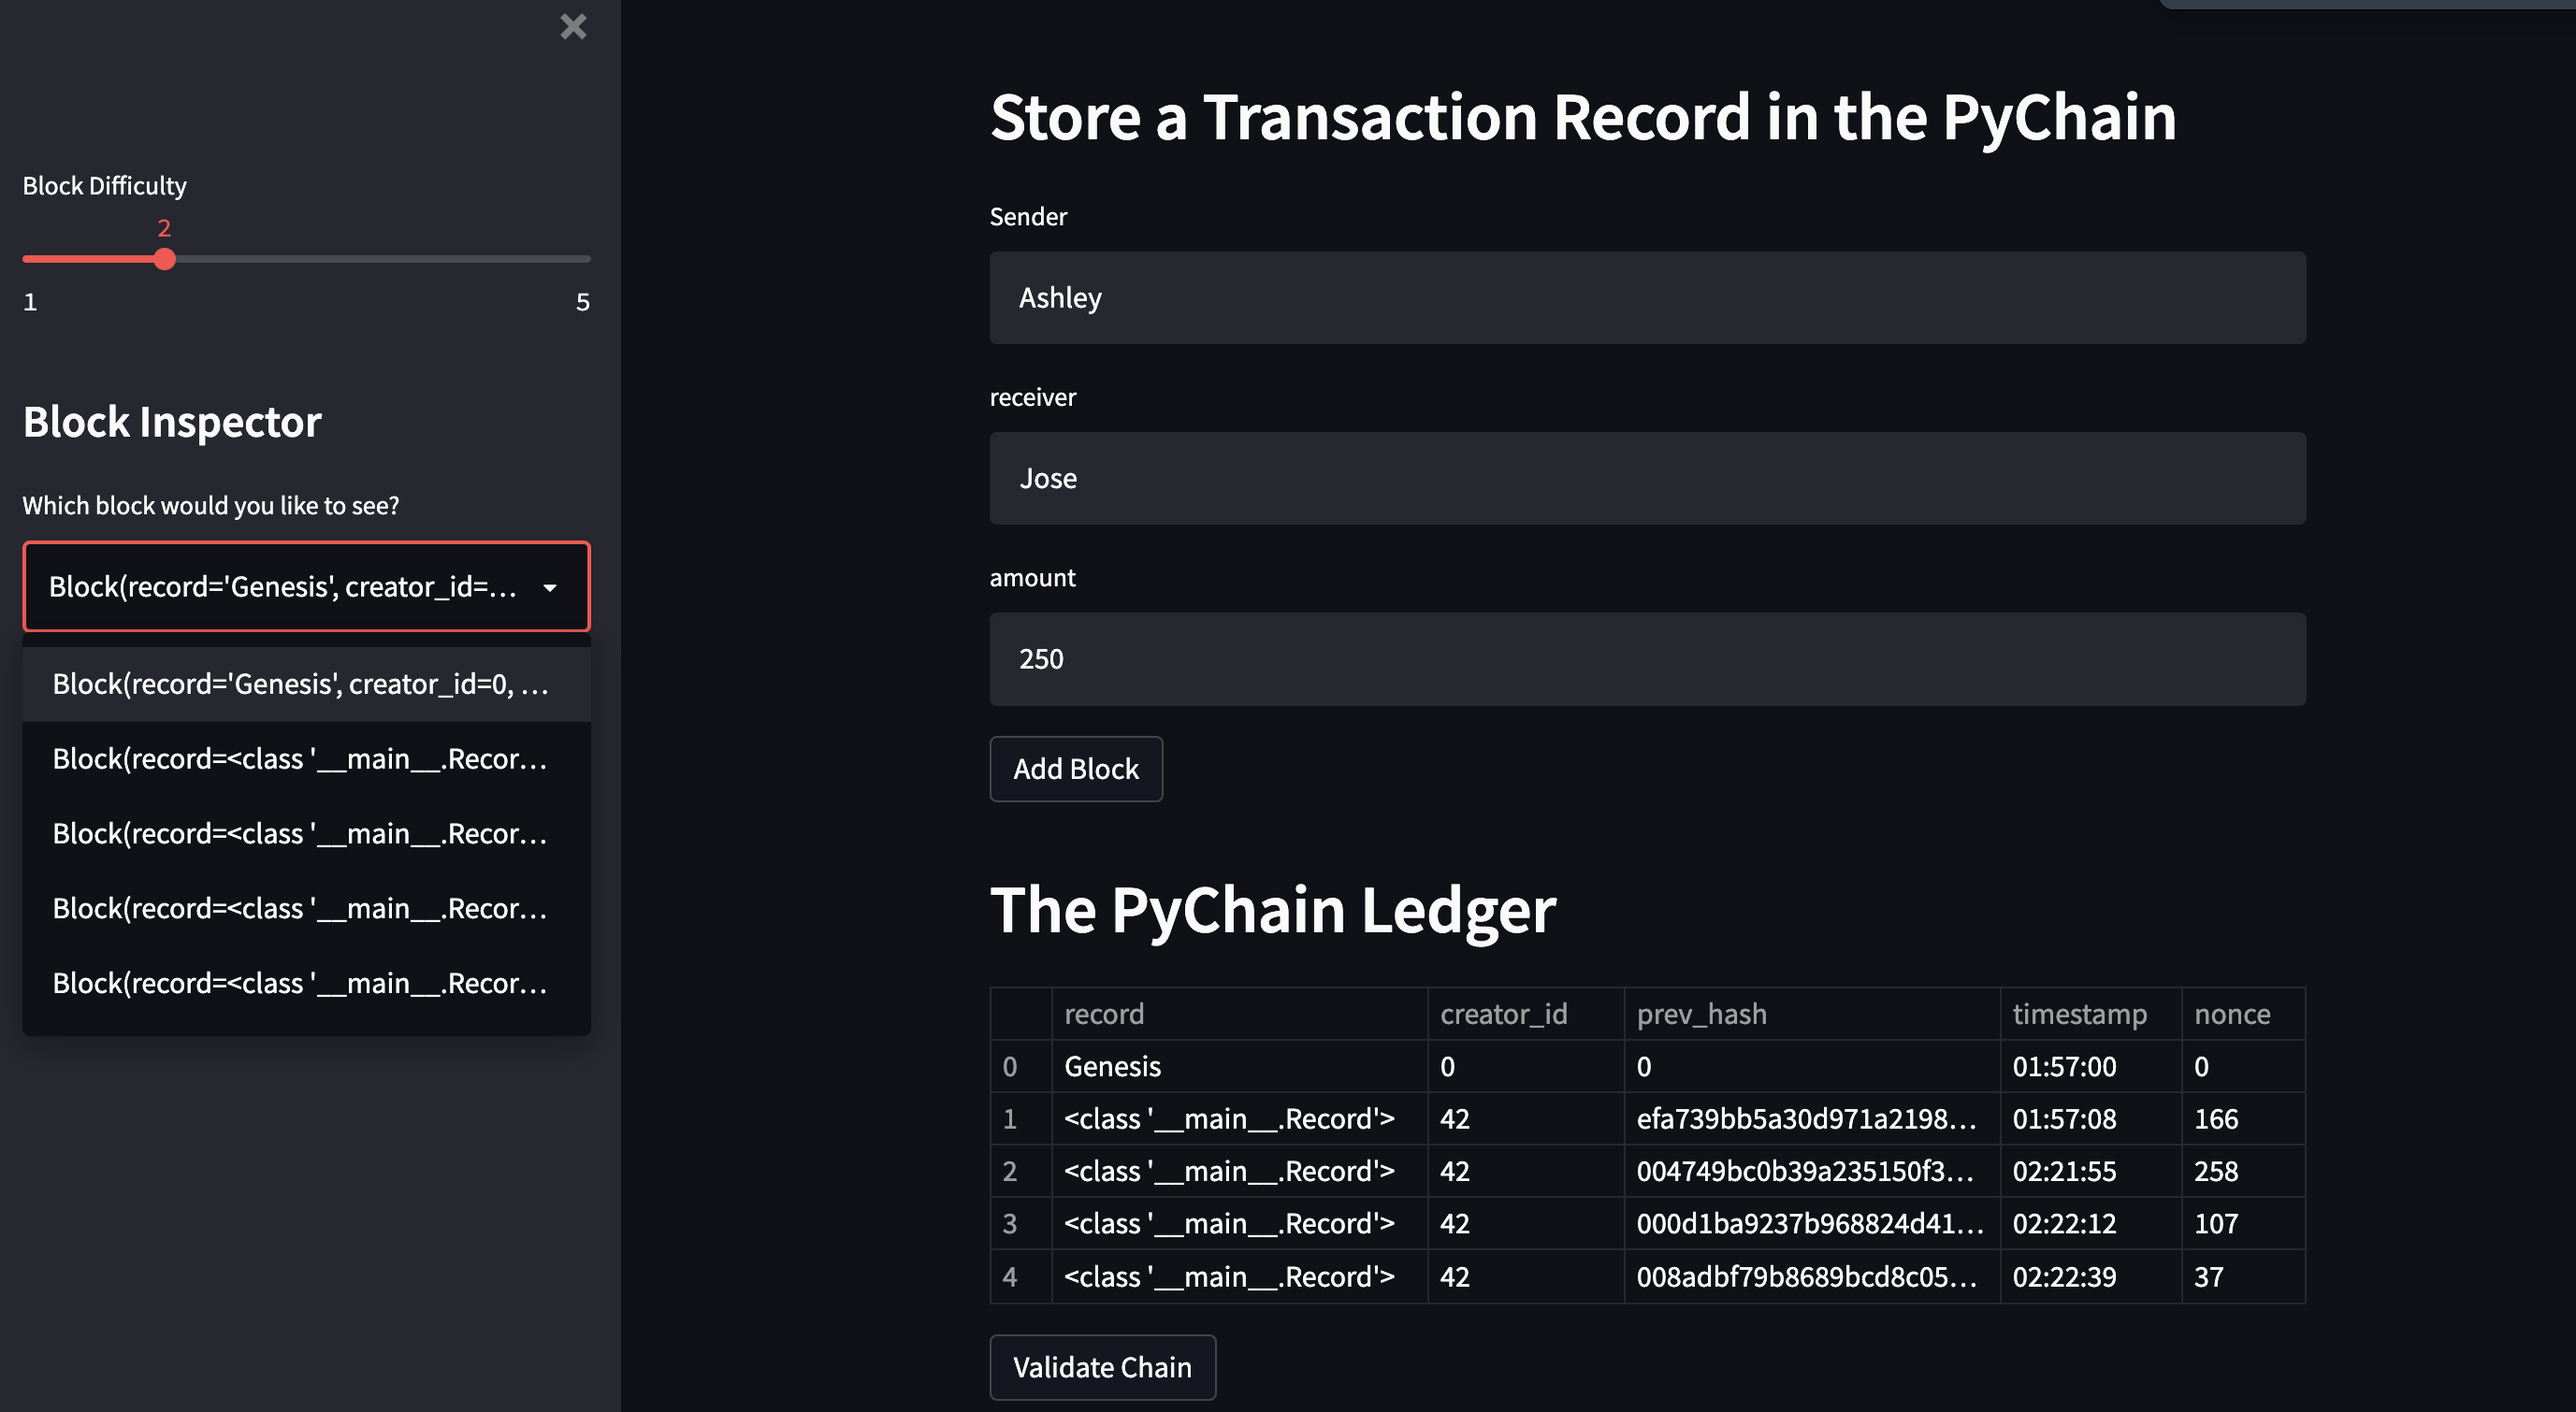
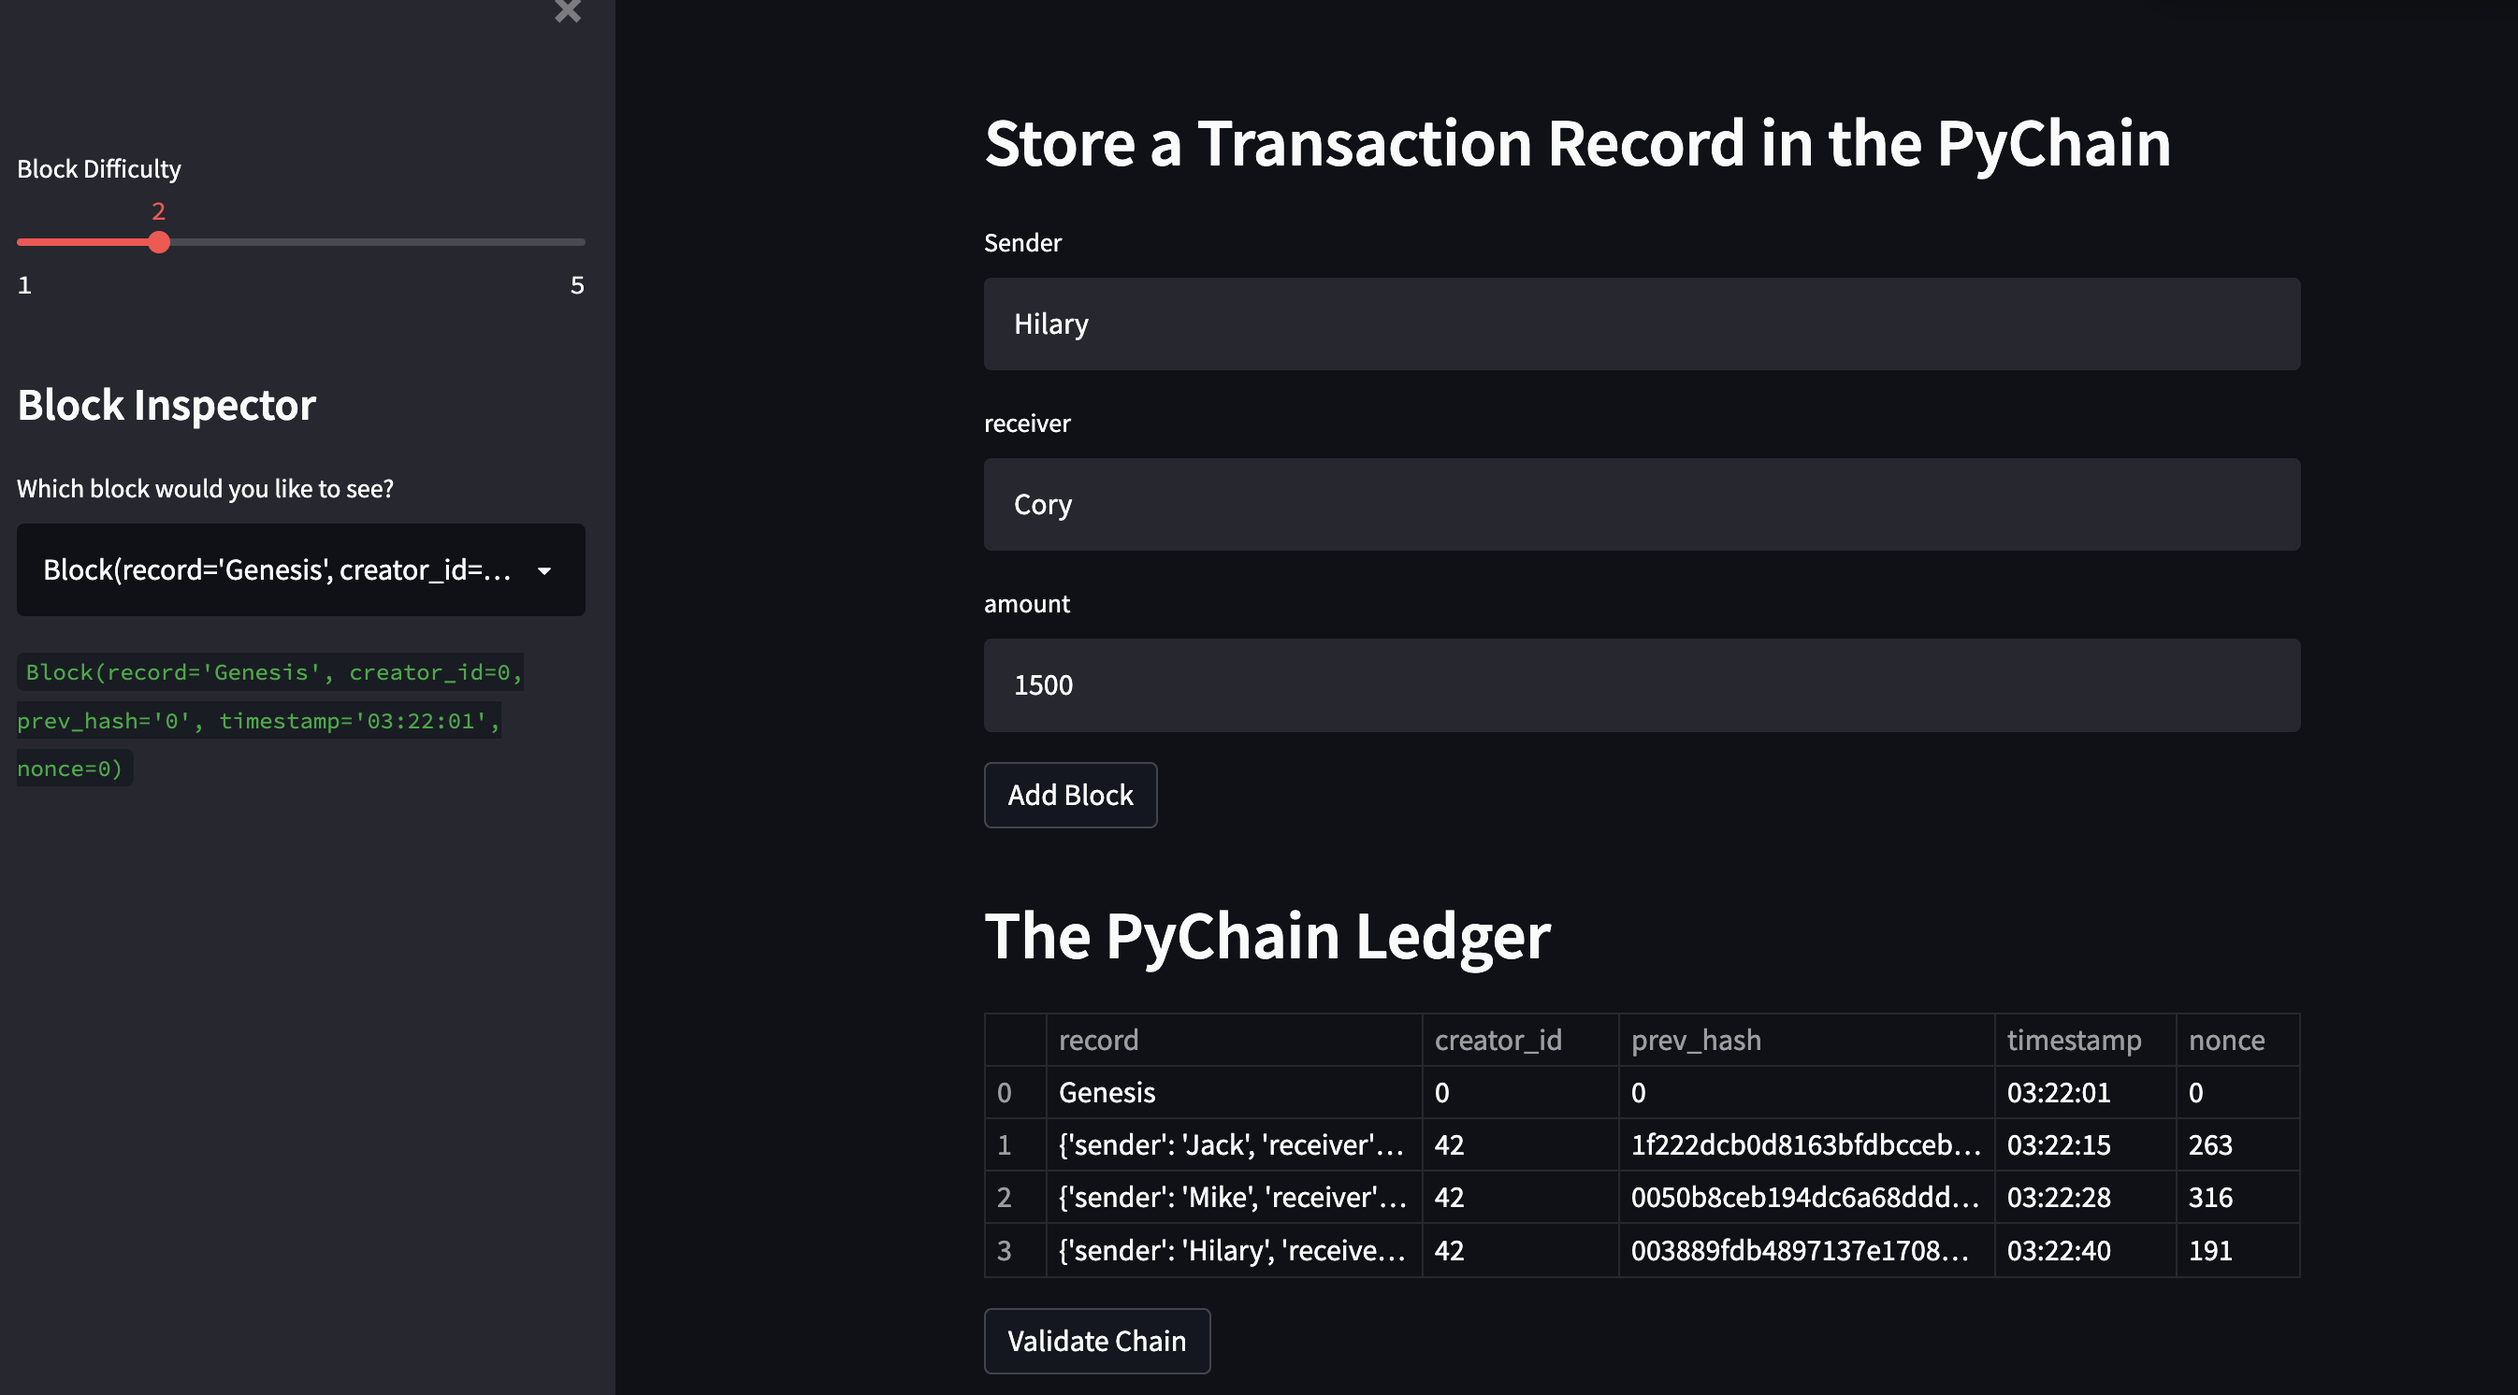
final commit - updated code and screenshots

diff --git a/Starter_Code/pychain.py b/Starter_Code/pychain.py
@@ -194,7 +194,7 @@ if st.button("Add Block"):
     # which is set equal to a `Record` that contains the `sender`, `receiver`,
     # and `amount` values
     new_block = Block(
-        record = Record,
+        record = Record(sender, receiver,amount),
         creator_id=42,
         prev_hash=prev_block_hash
     )
